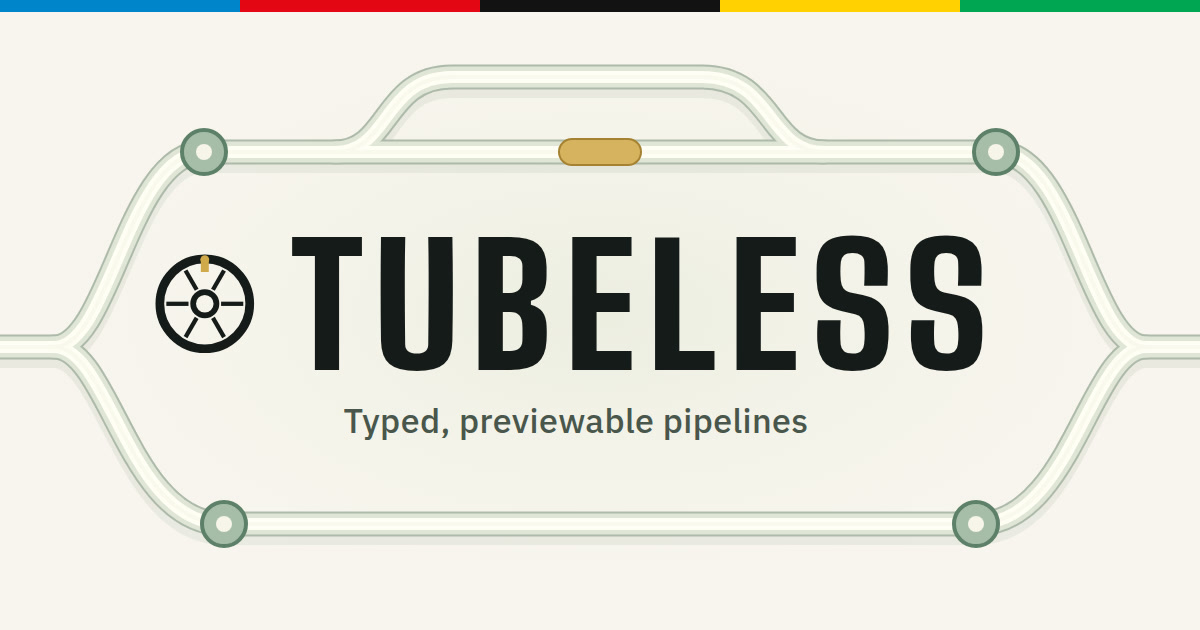
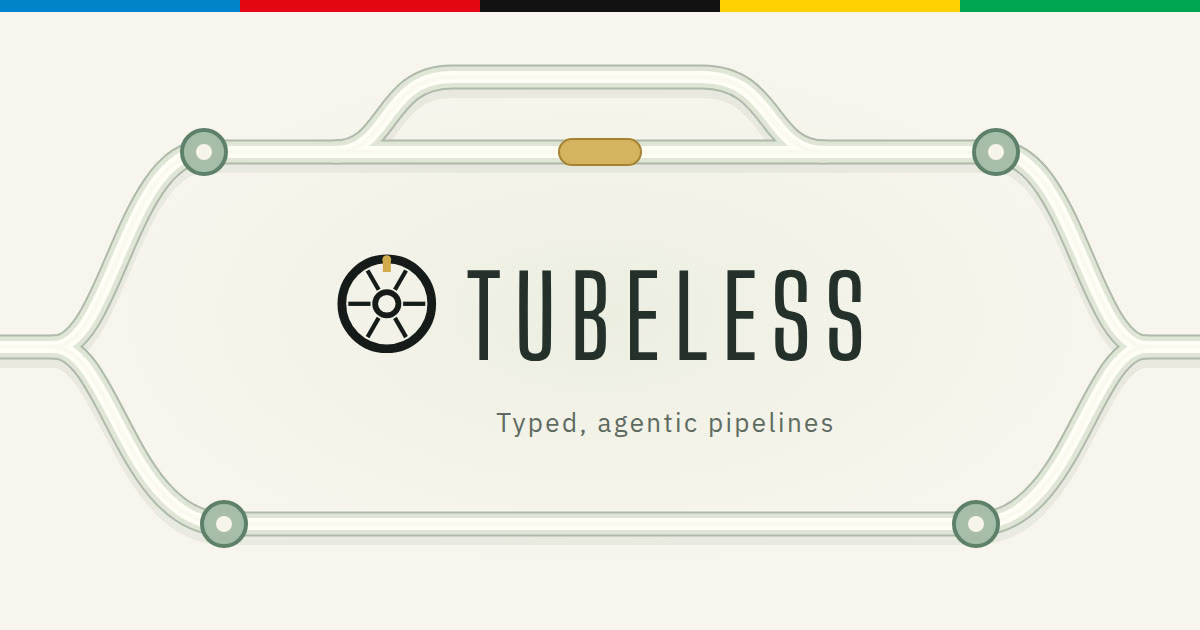
Retitle the pitch as typed, agentic pipelines
Replace the unclear "previewable" line with "Typed, agentic pipelines for TypeScript. Run locally, schedule on Tubeless Cloud." Lighten the social card wordmark so it is no longer stretched at weight 800.

Changed region(s): [[0.2467, 0.3619, 0.8325, 0.6032], [0.2775, 0.6333, 0.7092, 0.6937], [0.1233, 0.3921, 0.2158, 0.573]]

diff --git a/website/src/lib/social-image.ts b/website/src/lib/social-image.ts
@@ -9,4 +9,4 @@ const path = `og.jpg?v=${revision}`;
 
 export const SOCIAL_IMAGE_HREF = href(path);
 export const SOCIAL_IMAGE_URL = absUrl(path);
-export const SOCIAL_IMAGE_ALT = "Tubeless — Typed, previewable pipelines. Ivory tubes surround a large wordmark on warm paper, with the five-color brand stripe above.";
+export const SOCIAL_IMAGE_ALT = "Tubeless — Typed, agentic pipelines. Ivory tubes surround a large wordmark on warm paper, with the five-color brand stripe above.";

diff --git a/website/src/pages/llms.txt.ts b/website/src/pages/llms.txt.ts
@@ -6,7 +6,7 @@ import { GITHUB_BLOB, absUrl } from "../lib/paths";
 export const GET: APIRoute = () => {
   const body = `# tubeless
 
-> Typed, previewable pipelines for TypeScript. Run them locally, or schedule them on Tubeless Cloud. No runtime dependencies.
+> Typed, agentic pipelines for TypeScript. Run locally, schedule on Tubeless Cloud. No runtime dependencies.
 
 Version: ${PACKAGE.version}
 Full documentation: ${absUrl("llms-full.txt")}

diff --git a/website/src/pages/brand.md.ts b/website/src/pages/brand.md.ts
@@ -12,7 +12,7 @@ Brand assets for referring to Tubeless in articles, integrations, and community 
 
 ## Social share image
 
-Typed, previewable pipelines. Use this 1200 × 630 JPEG when sharing Tubeless on social media.
+Typed, agentic pipelines. Use this 1200 × 630 JPEG when sharing Tubeless on social media.
 
 - [Download the social share image](${SOCIAL_IMAGE_URL})
 `, { headers: { "content-type": "text/markdown; charset=utf-8" } });

diff --git a/README.md b/README.md
@@ -5,7 +5,7 @@
 </p>
 <h1 align="center">Tubeless</h1>
 <p align="center">
-  Typed, previewable pipelines for TypeScript. Run locally, schedule on <a href="https://cloud.tubeless.io">Tubeless Cloud</a>.
+  Typed, agentic pipelines for TypeScript. Run locally, schedule on <a href="https://cloud.tubeless.io">Tubeless Cloud</a>.
 </p>
 <p align="center">
   <a href="https://www.npmjs.com/package/tubeless"><img alt="npm version" src="https://img.shields.io/npm/v/tubeless?style=flat-square&labelColor=121212&color=c4a046"></a>
@@ -19,7 +19,7 @@
   <img src="docs/assets/studio.png" width="720" alt="Tubeless Studio on a completed live-tui run, with the step timeline and the Publish Manifest step selected.">
 </p>
 
-Each step's output is the next step's typed input. `plan()` shows the selected work before it runs. A dry run can skip writes. The same file runs in your process or on Tubeless Cloud.
+Each step's output is the next step's typed input. `plan()` lists the steps that will run, and does not run them. A dry run still runs unmarked steps and skips a write marked `dryRun: "skip"`. The same file runs in your process or on Tubeless Cloud.
 
 ## Quick start
 
